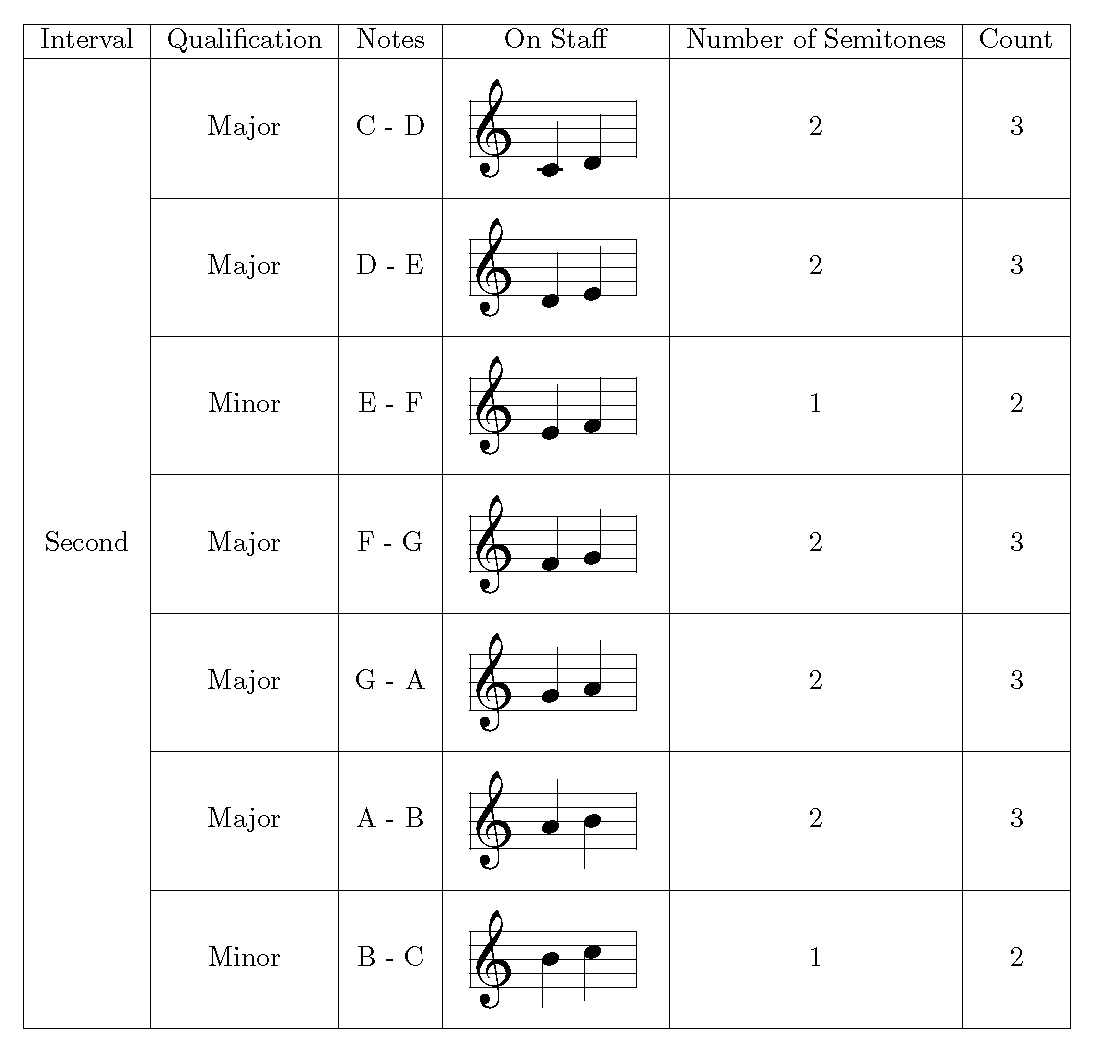
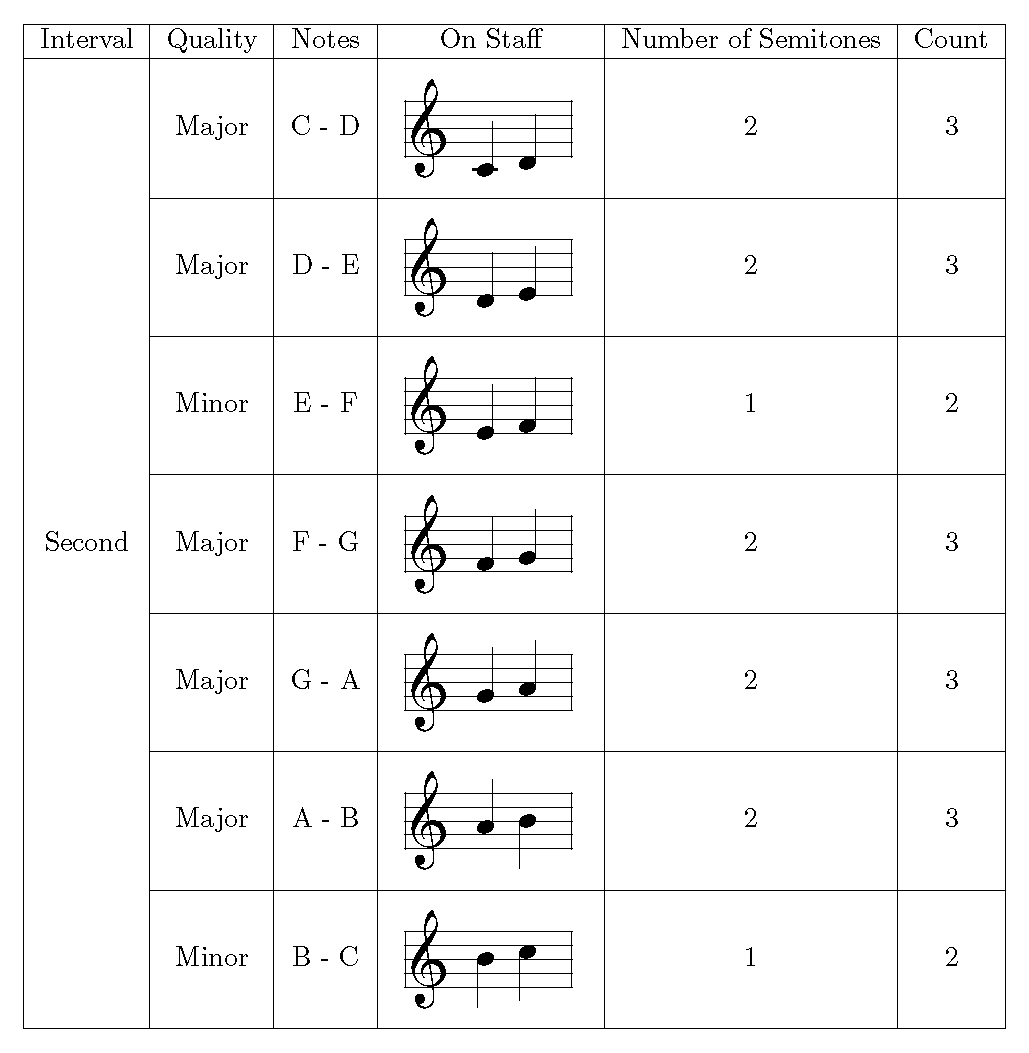
Latest build deployed.

diff --git a/scale-construction.html b/scale-construction.html
@@ -271,7 +271,7 @@ window.MathJax = {
 <td class="l m b1 r1 l0 t0 lines">Whole Tone</td>
 <td class="l m b1 r1 l0 t0 lines">Major 2nd</td>
 </tr>
-</table></div></figure><figure class="figure figure-like" id="C_Minor_Natural_Intervals_Diagram"><div class="image-box" style="width: 100%; margin-left: 0%; margin-right: 0%;"><img src="external/C%20Minor%20Natural%20Intervals.png" class="contained"></div>
+</table></div></figure><figure class="figure figure-like" id="C_Minor_Natural_Intervals_Diagram"><div class="image-box" style="width: 100%; margin-left: 0%; margin-right: 0%;"><img src="external/C%20Minor%20Natural%20with%20Intervals.png" class="contained"></div>
 <figcaption><span class="type">Figure</span><span class="space"> </span><span class="codenumber">3.3.4<span class="period">.</span></span><span class="space"> </span></figcaption></figure><figure class="table table-like" id="scale-construction-18"><figcaption><span class="type">Table</span><span class="space"> </span><span class="codenumber">3.3.5<span class="period">.</span></span><span class="space"> </span>Harmonic Minor Scale. To play a Harmonic Minor Scale, you simply raise the seventh note of the Natural Minor Scale by a half-step as you go up and down the scale</figcaption><div class="tabular-box natural-width"><table class="tabular">
 <tr class="header-horizontal">
 <th scope="col" class="l m b2 r1 l1 t1 lines">Scale Degree</th>

diff --git a/index.html b/index.html
@@ -2,7 +2,7 @@
 <html>
 <!--********************************************-->
 <!--*       Generated from PreTeXt source      *-->
-<!--*       on 2024-09-25T15:13:32Z       *-->
+<!--*       on 2024-09-25T15:23:50Z       *-->
 <!--*   A recent stable commit (2022-07-01):   *-->
 <!--* 6c761d3dba23af92cba35001c852aac04ae99a5f *-->
 <!--*                                          *-->
